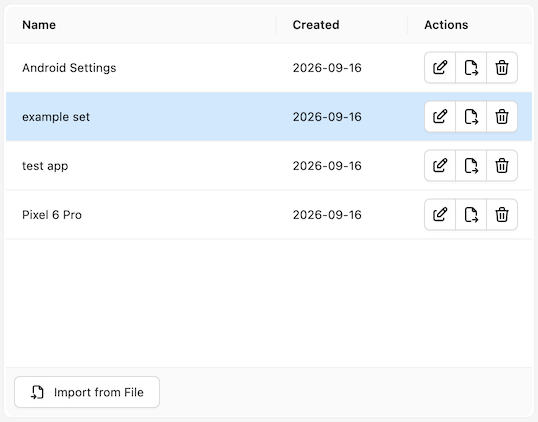
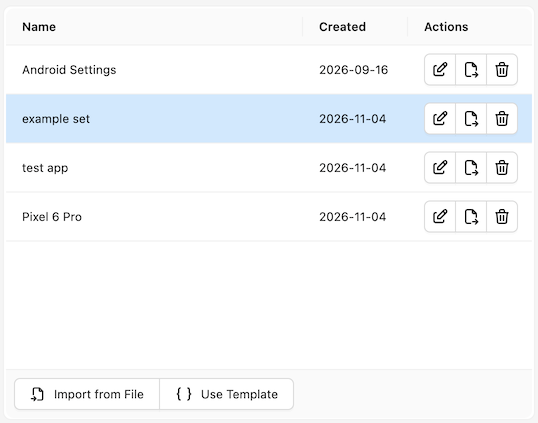
feat: add more capability templates + highlighting (#3307)
* feat: add more examples & highlighting to capability templates

* style: use space.compact to align with gestures

* docs: add template docs

* feat: add wincore template

diff --git a/app/common/renderer/constants/capability-templates.js b/app/common/renderer/constants/capability-templates.js
@@ -1,17 +1,176 @@
 const UIAUTOMATOR2_DOCS = 'https://appium.github.io/appium-uiautomator2-driver/latest/guides/capability-sets/';
+const ESPRESSO_DOCS = 'https://appium.github.io/appium-espresso-driver/latest/getting-started/#creating-a-session';
 const XCUITEST_DOCS = 'https://appium.github.io/appium-xcuitest-driver/latest/guides/capability-sets/';
+const MAC2_DOCS = 'https://appium.github.io/appium-mac2-driver/latest/getting-started/#creating-a-session';
+const WINCORE_DOCS = 'https://github.com/appium/appium-wincore-driver#examples';
 
 export const CAPABILITY_TEMPLATES = [
   {
-    id: 'android-uiautomator2-native',
-    name: 'Android (UiAutomator2)',
+    id: 'android-uiautomator2-basic',
+    name: 'Android (UiAutomator2 / Current App / Device Autoselected)',
     documentation: UIAUTOMATOR2_DOCS,
     caps: {platformName: 'Android', 'appium:automationName': 'UiAutomator2'},
   },
   {
-    id: 'ios-xcuitest-native',
-    name: 'iOS (XCUITest)',
+    id: 'android-uiautomator2-appfile-real',
+    name: 'Android (UiAutomator2 / App File / Real Device)',
+    documentation: UIAUTOMATOR2_DOCS,
+    caps: {
+      platformName: 'Android',
+      'appium:automationName': 'UiAutomator2',
+      'appium:udid': '<device-udid>',
+      'appium:app': '/path/to/app/file',
+    },
+  },
+  {
+    id: 'android-uiautomator2-appfile-emulator',
+    name: 'Android (UiAutomator2 / App File / Emulator)',
+    documentation: UIAUTOMATOR2_DOCS,
+    caps: {
+      platformName: 'Android',
+      'appium:automationName': 'UiAutomator2',
+      'appium:avd': '<emulator-name>',
+      'appium:app': '/path/to/app/file',
+    },
+  },
+  {
+    id: 'android-uiautomator2-preinstalled-real',
+    name: 'Android (UiAutomator2 / Pre-Installed App / Real Device)',
+    documentation: UIAUTOMATOR2_DOCS,
+    caps: {
+      platformName: 'Android',
+      'appium:automationName': 'UiAutomator2',
+      'appium:udid': '<device-udid>',
+      'appium:appPackage': '<app-package-name>',
+      'appium:appActivity': '<app-activity-name>',
+      'appium:noReset': true,
+    },
+  },
+  {
+    id: 'android-uiautomator2-preinstalled-emulator',
+    name: 'Android (UiAutomator2 / Pre-Installed App / Emulator)',
+    documentation: UIAUTOMATOR2_DOCS,
+    caps: {
+      platformName: 'Android',
+      'appium:automationName': 'UiAutomator2',
+      'appium:avd': '<emulator-name>',
+      'appium:appPackage': '<app-package-name>',
+      'appium:appActivity': '<app-activity-name>',
+      'appium:noReset': true,
+    },
+  },
+  {
+    id: 'android-espresso-appfile-real',
+    name: 'Android (Espresso / App File / Real Device)',
+    documentation: ESPRESSO_DOCS,
+    caps: {
+      platformName: 'Android',
+      'appium:automationName': 'Espresso',
+      'appium:udid': '<device-udid>',
+      'appium:app': '/path/to/app/file',
+      'appium:espressoBuildConfig': '<espresso-server-config>',
+    },
+  },
+  {
+    id: 'android-espresso-appfile-emulator',
+    name: 'Android (Espresso / App File / Emulator)',
+    documentation: ESPRESSO_DOCS,
+    caps: {
+      platformName: 'Android',
+      'appium:automationName': 'Espresso',
+      'appium:avd': '<emulator-name>',
+      'appium:app': '/path/to/app/file',
+      'appium:espressoBuildConfig': '<espresso-server-config>',
+    },
+  },
+  {
+    id: 'ios-xcuitest-basic',
+    name: 'iOS (XCUITest / Current App / Device Autoselected)',
     documentation: XCUITEST_DOCS,
     caps: {platformName: 'iOS', 'appium:automationName': 'XCUITest'},
+  },
+  {
+    id: 'ios-xcuitest-appfile-real',
+    name: 'iOS (XCUITest / App File / Real Device)',
+    documentation: XCUITEST_DOCS,
+    caps: {
+      platformName: 'iOS',
+      'appium:automationName': 'XCUITest',
+      'appium:udid': '<device-udid>',
+      'appium:app': '/path/to/app/file',
+    },
+  },
+  {
+    id: 'ios-xcuitest-appfile-simulator',
+    name: 'iOS (XCUITest / App File / Simulator)',
+    documentation: XCUITEST_DOCS,
+    caps: {
+      platformName: 'iOS',
+      'appium:automationName': 'XCUITest',
+      'appium:deviceName': '<simulator-name>',
+      'appium:platformVersion': '<simulator-os-version>',
+      'appium:app': '/path/to/app/file',
+    },
+  },
+  {
+    id: 'ios-xcuitest-preinstalled-real',
+    name: 'iOS (XCUITest / Pre-Installed App / Real Device)',
+    documentation: XCUITEST_DOCS,
+    caps: {
+      platformName: 'iOS',
+      'appium:automationName': 'XCUITest',
+      'appium:udid': '<device-udid>',
+      'appium:bundleId': '<app-bundle-id>',
+      'appium:noReset': true,
+    },
+  },
+  {
+    id: 'ios-xcuitest-preinstalled-simulator',
+    name: 'iOS (XCUITest / Pre-Installed App / Simulator)',
+    documentation: XCUITEST_DOCS,
+    caps: {
+      platformName: 'iOS',
+      'appium:automationName': 'XCUITest',
+      'appium:deviceName': '<simulator-name>',
+      'appium:platformVersion': '<simulator-os-version>',
+      'appium:bundleId': '<app-bundle-id>',
+      'appium:noReset': true,
+    },
+  },
+  {
+    id: 'tvos-xcuitest-appfile-simulator',
+    name: 'tvOS (XCUITest / App File / Simulator)',
+    documentation: XCUITEST_DOCS,
+    caps: {
+      platformName: 'tvOS',
+      'appium:automationName': 'XCUITest',
+      'appium:deviceName': '<simulator-name>',
+      'appium:platformVersion': '<simulator-os-version>',
+      'appium:app': '/path/to/app/file',
+    },
+  },
+  {
+    id: 'watchos-xcuitest-appfile-simulator',
+    name: 'watchOS (XCUITest / App File / Simulator)',
+    documentation: XCUITEST_DOCS,
+    caps: {
+      platformName: 'watchOS',
+      'appium:automationName': 'XCUITest',
+      'appium:deviceName': '<simulator-name>',
+      'appium:platformVersion': '<simulator-os-version>',
+      'appium:app': '/path/to/app/file',
+    },
+  },
+  {
+    id: 'macos-mac2-basic',
+    name: 'macOS (Mac2 / Finder)',
+    documentation: MAC2_DOCS,
+    caps: {platformName: 'mac', 'appium:automationName': 'Mac2'},
+  },
+  {
+    id: 'windows-wincore-basic',
+    name: 'Windows (WinCore / Desktop)',
+    documentation: WINCORE_DOCS,
+    caps: {platformName: 'Windows', 'appium:automationName': 'Wincore', 'appium:app': 'Root'},
   },
 ];

diff --git a/app/common/renderer/components/SessionBuilder/SavedCapabilitySetsTab/CapabilityTemplates.jsx b/app/common/renderer/components/SessionBuilder/SavedCapabilitySetsTab/CapabilityTemplates.jsx
@@ -2,9 +2,23 @@ import {IconBraces} from '@tabler/icons-react';
 import {Button, Card, Modal, Select, Space} from 'antd';
 import {useState} from 'react';
 import {useTranslation} from 'react-i18next';
+import {Refractor} from 'react-refractor';
 
 import {CAPABILITY_TEMPLATES} from '../../../constants/capability-templates.js';
 import {openLink} from '../../../polyfills.js';
+
+import builderStyles from '../SessionBuilder.module.css';
+
+const highlightTemplateSyntax = (caps) => {
+  const formattedJson = JSON.stringify(caps, null, 2);
+  return (
+    <Refractor
+      className={`refractor ${builderStyles.formattedCapabilitiesJson}`}
+      language="json"
+      value={formattedJson}
+    />
+  );
+};
 
 const CapabilityTemplates = ({loadCapabilityTemplate}) => {
   const {t} = useTranslation();
@@ -48,11 +62,7 @@ const CapabilityTemplates = ({loadCapabilityTemplate}) => {
             onChange={setTemplateId}
             options={CAPABILITY_TEMPLATES.map(({id, name}) => ({value: id, label: name}))}
           />
-          {template && (
-            <Card size="small">
-              <pre style={{margin: 0, whiteSpace: 'pre-wrap'}}>{JSON.stringify(template.caps, null, 2)}</pre>
-            </Card>
-          )}
+          {template && <Card size="small">{highlightTemplateSyntax(template.caps)}</Card>}
           {template && (
             <Button type="link" onClick={() => openLink(template.documentation)}>
               {t('capabilityTemplateSetup')}

diff --git a/app/common/renderer/components/SessionBuilder/CapabilityJSON/CapabilityJSON.jsx b/app/common/renderer/components/SessionBuilder/CapabilityJSON/CapabilityJSON.jsx
@@ -1,16 +1,13 @@
 import {IconDeviceFloppy, IconEdit, IconX} from '@tabler/icons-react';
 import {Alert, Button, Card, Input, Row, Tooltip} from 'antd';
 import {useTranslation} from 'react-i18next';
-import {Refractor, registerLanguage} from 'react-refractor';
-import json from 'refractor/json';
+import {Refractor} from 'react-refractor';
 
 import {getCapsObject} from '../../../actions/SessionBuilder.js';
 import {ALERT} from '../../../constants/antd-types.js';
 
 import builderStyles from '../SessionBuilder.module.css';
 import styles from './CapabilityJSON.module.css';
-
-registerLanguage(json);
 
 const CapabilityJSON = (props) => {
   const {
@@ -37,7 +34,13 @@ const CapabilityJSON = (props) => {
 
   const getHighlightedCaps = (caps) => {
     const formattedJson = JSON.stringify(getCapsObject(caps), null, 2);
-    return <Refractor className={`refractor ${styles.formattedCapsCode}`} language="json" value={formattedJson} />;
+    return (
+      <Refractor
+        className={`refractor ${builderStyles.formattedCapabilitiesJson}`}
+        language="json"
+        value={formattedJson}
+      />
+    );
   };
 
   const setCapsTitle = () => {

diff --git a/app/common/renderer/components/SessionBuilder/SessionBuilder.jsx b/app/common/renderer/components/SessionBuilder/SessionBuilder.jsx
@@ -4,7 +4,9 @@ import {Badge, Button, Divider, Space, Spin, Tabs} from 'antd';
 import {useCallback, useEffect, useMemo, useState} from 'react';
 import {useTranslation} from 'react-i18next';
 import {shallowEqual, useDispatch, useSelector} from 'react-redux';
+import {registerLanguage} from 'react-refractor';
 import {useNavigate} from 'react-router';
+import json from 'refractor/json';
 
 import * as SessionBuilderActions from '../../actions/SessionBuilder.js';
 import {BUTTON} from '../../constants/antd-types.js';
@@ -28,6 +30,8 @@ import CloudProviderSelector from './ServerDetails/CloudProviderSelector.jsx';
 import ServerTabCustom from './ServerDetails/ServerTabCustom.jsx';
 
 import styles from './SessionBuilder.module.css';
+
+registerLanguage(json);
 
 // There are 3 possible cases for an empty capability set:
 // * Default Inspector state, which has 1 predefined capability without name or value

diff --git a/app/common/renderer/components/SessionBuilder/SavedCapabilitySetsTab/SavedCapabilitySets.jsx b/app/common/renderer/components/SessionBuilder/SavedCapabilitySetsTab/SavedCapabilitySets.jsx
@@ -165,7 +165,7 @@ const SavedCapabilitySets = (props) => {
               }}
               scroll={{y: 'calc(100% - 37px)'}}
               footer={() => (
-                <Space wrap>
+                <Space.Compact wrap>
                   <FileUploader
                     title={t('Import from File')}
                     onUpload={importSessionFiles}
@@ -173,7 +173,7 @@ const SavedCapabilitySets = (props) => {
                     type={SESSION_FILE_EXTENSION}
                   />
                   <CapabilityTemplates loadCapabilityTemplate={loadCapabilityTemplate} />
-                </Space>
+                </Space.Compact>
               )}
             />
           </Card>

diff --git a/app/common/renderer/components/SessionBuilder/CapabilityJSON/CapabilityJSON.module.css b/app/common/renderer/components/SessionBuilder/CapabilityJSON/CapabilityJSON.module.css
@@ -40,12 +40,6 @@
   padding: 10px 0;
 }
 
-.formattedCapsCode {
-  margin-bottom: 0;
-  overflow-y: scroll;
-  height: 100%;
-}
-
 .capsEditorControls {
   position: absolute;
   right: 0;

diff --git a/app/common/renderer/components/SessionBuilder/SessionBuilder.module.css b/app/common/renderer/components/SessionBuilder/SessionBuilder.module.css
@@ -61,3 +61,9 @@
   color: #ff4d4f;
   font-size: 12px;
 }
+
+.formattedCapabilitiesJson {
+  margin-bottom: 0;
+  overflow-y: scroll;
+  height: 100%;
+}

diff --git a/docs/session-builder/saved-capability-sets.md b/docs/session-builder/saved-capability-sets.md
@@ -19,22 +19,39 @@ is also shown in the title of the Saved Capability Sets tab.
 ![Saved Caps Set List](assets/images/saved-capability-sets/saved-caps-set-list.png)
 
 Selecting any set populates the JSON structure on the right side with the contents of the set.
-The Actions column of each set also has 3 buttons:
+
+Each entry in the list of saved sets has 3 buttons:
 
 - Open the set in the Capability Builder tab
 - Export the set (along with the current session details) as an `.appiumsession` file
 - Delete the set
 
-There is also a button at the bottom of the saved capability sets list, which can be used to import
-previously exported `.appiumsession` files and automatically add them to the list of saved
-capability sets. Multiple files can be imported at the same time.
+The bottom of the list also provides buttons for importing a capability set from a file, or
+applying capabilities from a built-in template.
+
+### Import from File
+
+The import button is used for importing previously exported `.appiumsession` files. Clicking the
+button opens a file browser window, and selecting one or more session files loads them into the
+Inspector and automatically adds them to the list of saved capability sets.
 
 !!! tip
 
-    If you have installed the standalone desktop app version, you can also open an `.appiumsession`
-    file using your file manager/command line. This will launch the Inspector and load the session
-    file details in the [Capability Builder tab](./capability-builder.md), which may be useful if
-    you do not want to add it as a saved capability set.
+    If using the standalone desktop app version, you can also open an `.appiumsession` file using
+    your file manager/command line. This will launch the Inspector and load the session file
+    details in the [Capability Builder tab](./capability-builder.md), which may be useful if you do
+    not want to add it as a saved capability set.
+
+### Use Template
+
+The template button provides access to multiple built-in capability set templates, which can be
+used as a starting point for creating more complex capability sets. Clicking the button opens a new
+modal window, where the dropdown can be used to select the desired template:
+
+![Capability Templates](assets/images/saved-capability-sets/capability-templates.png)
+
+Clicking the _Use Template_ button then replaces the current capability set with the template
+contents.
 
 ## Saved Capability Set JSON Structure
 
